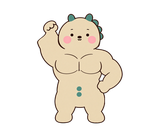
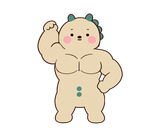
운동기록 프로토타입 v2.08 — 이무 Lv.70 자세 잡기 든 팔 다시 그림(design nijim_imu70_arm_redraw_20261121): sig/imu lv70.webp·lv70_pose.png 교체(든 팔=알통 근육 팔) · lv70_base·anim.js 값 무변경 · 캐시키 v=2.08 · 되돌릴 곳 b8e2c49a

Changed region(s): [[0.2188, 0.2188, 0.4062, 0.4688], [0.2812, 0.4688, 0.375, 0.625]]

diff --git a/index.html b/index.html
@@ -5,8 +5,8 @@
 <meta name="viewport" content="width=device-width, initial-scale=1, viewport-fit=cover">
 <title>니짐내짐 운동기록 · 캐릭터 성장 프로토타입</title>
 <link rel="stylesheet" href="https://cdn.jsdelivr.net/gh/orioncactus/pretendard/dist/web/static/pretendard.css">
-<link rel="stylesheet" href="style.css?v=2.07">
-<link rel="stylesheet" href="admin.css?v=2.07">
+<link rel="stylesheet" href="style.css?v=2.08">
+<link rel="stylesheet" href="admin.css?v=2.08">
 </head>
 <body>
 <div class="app" id="app">
@@ -47,32 +47,32 @@
   <div class="evo-hint" id="evoHint">화면을 탭하면 건너뛰어요</div>
 </div>
 
-<script src="assets/chars.js?v=2.07"></script>
-<script src="assets/anim/anim.js?v=2.07"></script>
-<script src="exercises.js?v=2.07"></script>
-<script src="ex_guide.js?v=2.07"></script>
-<script src="engine.js?v=2.07"></script>
-<script src="config_store.js?v=2.07"></script>
-<script src="admin_shop82.js?v=2.07"></script>
-<script src="assets/food/points.js?v=2.07"></script>
-<script src="eat.js?v=2.07"></script>
-<script src="charanim.js?v=2.07"></script>
-<script src="qr.js?v=2.07"></script>
-<script src="center_machines.js?v=2.07"></script>
-<script src="gymreq.js?v=2.07"></script>
-<script src="item_config.js?v=2.07"></script>
-<script src="equip.js?v=2.07"></script>
-<script src="gear.js?v=2.07"></script>
-<script src="coach_ai.js?v=2.07"></script>
-<script src="app.js?v=2.07"></script>
-<script src="coach_config.js?v=2.07"></script>
-<script src="screens2.js?v=2.07"></script>
-<script src="badges.js?v=2.07"></script>
-<script src="coach_info.js?v=2.07"></script>
-<script src="center_rank.js?v=2.07"></script>
-<script src="ranking.js?v=2.07"></script>
-<script src="share.js?v=2.07"></script>
-<script src="feed.js?v=2.07"></script>
-<script src="admin.js?v=2.07"></script>
+<script src="assets/chars.js?v=2.08"></script>
+<script src="assets/anim/anim.js?v=2.08"></script>
+<script src="exercises.js?v=2.08"></script>
+<script src="ex_guide.js?v=2.08"></script>
+<script src="engine.js?v=2.08"></script>
+<script src="config_store.js?v=2.08"></script>
+<script src="admin_shop82.js?v=2.08"></script>
+<script src="assets/food/points.js?v=2.08"></script>
+<script src="eat.js?v=2.08"></script>
+<script src="charanim.js?v=2.08"></script>
+<script src="qr.js?v=2.08"></script>
+<script src="center_machines.js?v=2.08"></script>
+<script src="gymreq.js?v=2.08"></script>
+<script src="item_config.js?v=2.08"></script>
+<script src="equip.js?v=2.08"></script>
+<script src="gear.js?v=2.08"></script>
+<script src="coach_ai.js?v=2.08"></script>
+<script src="app.js?v=2.08"></script>
+<script src="coach_config.js?v=2.08"></script>
+<script src="screens2.js?v=2.08"></script>
+<script src="badges.js?v=2.08"></script>
+<script src="coach_info.js?v=2.08"></script>
+<script src="center_rank.js?v=2.08"></script>
+<script src="ranking.js?v=2.08"></script>
+<script src="share.js?v=2.08"></script>
+<script src="feed.js?v=2.08"></script>
+<script src="admin.js?v=2.08"></script>
 </body>
 </html>

diff --git a/app.js b/app.js
@@ -2,7 +2,7 @@
 /* v1.12 — v1.11(C안 1/4 고객 앱 기록 흐름 전부) + 결정 33: 아이템 경험치는 한도 없음(운동 경험치만 하루 600·주 1,800).
    경험치·레벨·표정·랭킹 계산은 engine.js 한 곳(CFG·sessionXP·capGain·applyXP·judgeIntensity·exprFor·forecastWeek). 이 파일은 화면만 */
 const KEY = 'nijim_workout_proto_v111';
-const VER = 'v2.07';
+const VER = 'v2.08';
 /* 확정 12종(결정 22~25) — design v13 정본 · 레벨 띠 11컷 · 표정 5종. 12종 모두 처음부터 선택 가능(결정 25) */
 const CH = {
   mungchi:   { name: '뭉치', josa: '가', intro: '느긋하고 솔직한 땀방울 슬라임' },
